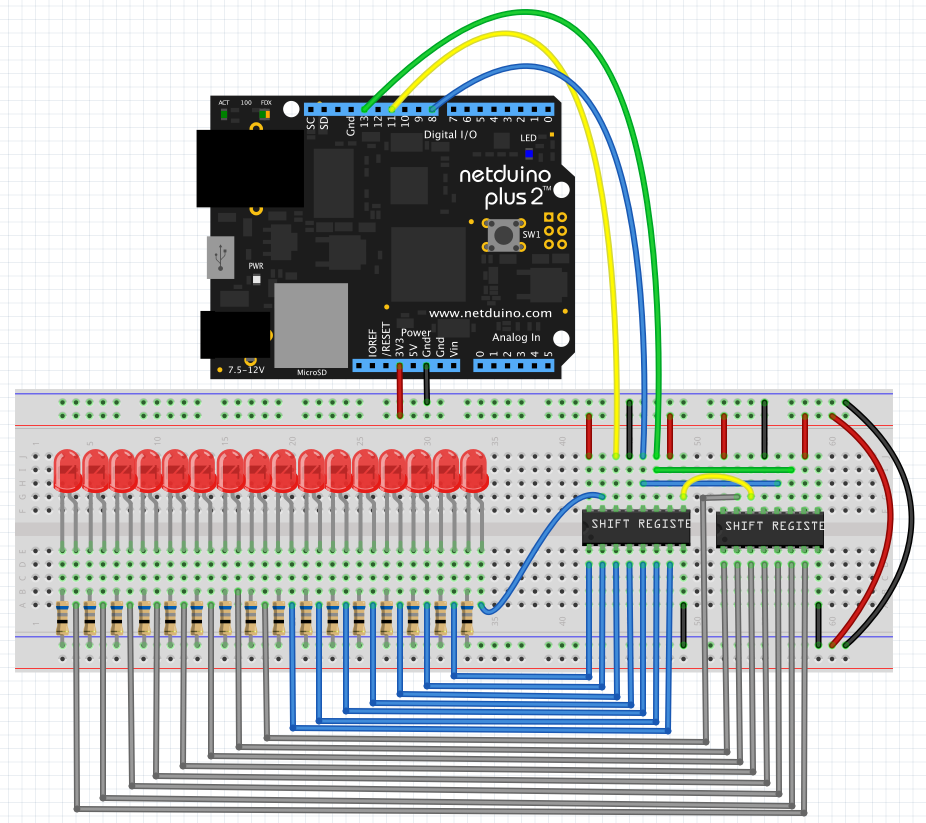
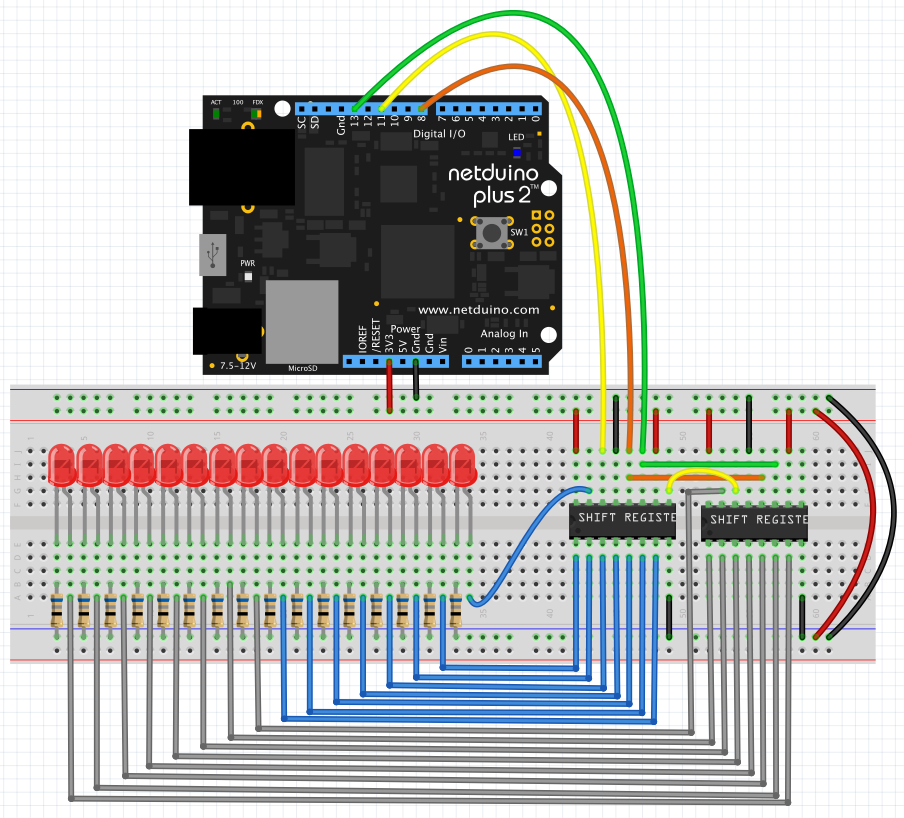
x74595: Clarified diagrams and expanded documentation on chains

diff --git a/docs/Library/ICs/74595/index.md b/docs/Library/ICs/74595/index.md
@@ -94,7 +94,11 @@ As noted above, 74xx595 shift registers can be chained together to form a larger
 
 The LEDs are will show a 16-bit value with the least significant bit at the far right of the sequence.
 
-Note the small yellow wire connecting the two shift registers together.  This takes the data out of the first shift register and feeds it as an input to the second shift register.
+The clock (green wire) and chip select (orange wire) are common to all shift registers in the chain.
+
+Note the small yellow wire connecting the two shift registers together.  This takes the data out of the first shift register (least significant byte) and feeds it as an input to the second shift register (most significant byte).
+
+The blue wires take the signals representing the bits for the least significant byte to the LEDs.  The grey wires perform the same task for the most significant byte.
 
 ### Software
 
@@ -129,9 +133,7 @@ namespace x74595_RelaySample
             {
                 shiftRegister.Clear(true);
                 for (byte index = 0; index < 16; index++)
-                {
-                    shiftRegister[index] = true;
-                    Thread.Sleep(500);
+                    shiftRegister[index] = true;v                    Thread.Sleep(500);
                     shiftRegister[index] = false;
                 }
             }
